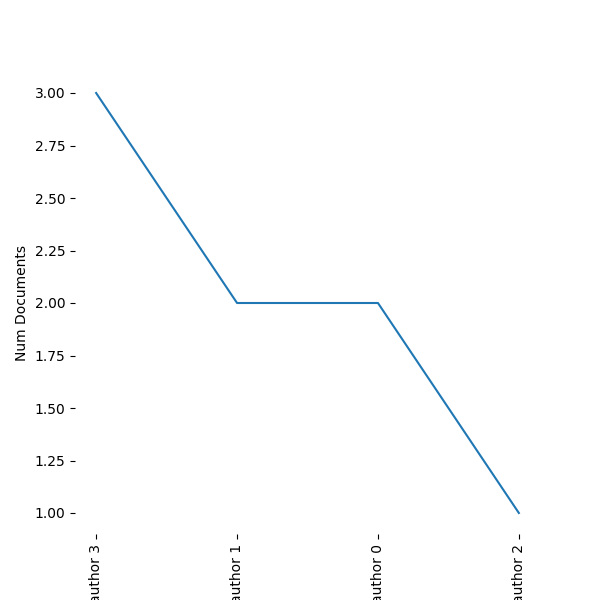
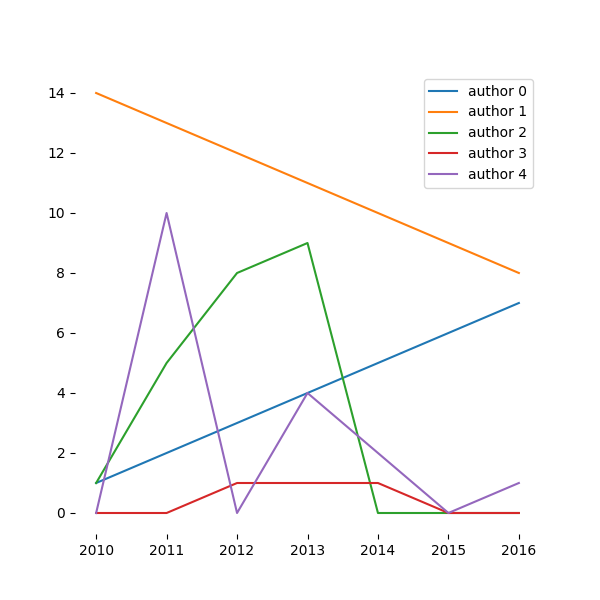
Plot.plot definition change

diff --git a/techminer/plot.py b/techminer/plot.py
@@ -799,20 +799,26 @@ class Plot:
         ----------------------------------------------------------------------------------------------
 
         >>> import pandas as pd
-        >>> pd = pd.DataFrame(
+        >>> df = pd.DataFrame(
         ...     {
-        ...         "Authors": "author 3,author 1,author 0,author 2".split(","),
-        ...         "Num Documents": [3, 2, 2, 1],
-        ...         "ID": list(range(4)),
-        ...     }
+        ...         "author 0": [ 1, 2, 3, 4, 5, 6, 7],
+        ...         "author 1": [14, 13, 12, 11, 10, 9, 8],
+        ...         "author 2": [1, 5, 8, 9, 0, 0, 0],
+        ...         "author 3": [0, 0, 1, 1, 1, 0, 0],
+        ...         "author 4": [0, 10, 0, 4, 2, 0, 1],
+        ...     },
+        ...     index =[2010, 2011, 2012, 2013, 2014, 2015, 2016]
         ... )
-        >>> pd
-            Authors  Num Documents  ID
-        0  author 3              3   0
-        1  author 1              2   1
-        2  author 0              2   2
-        3  author 2              1   3
-        >>> _ = Plot(pd).plot()
+        >>> df
+              author 0  author 1  author 2  author 3  author 4
+        2010         1        14         1         0         0
+        2011         2        13         5         0        10
+        2012         3        12         8         1         0
+        2013         4        11         9         1         4
+        2014         5        10         0         1         2
+        2015         6         9         0         0         0
+        2016         7         8         0         0         1
+        >>> _ = Plot(df).plot()
         >>> plt.savefig('sphinx/images/plotplot.png')
         
         .. image:: images/plotplot.png
@@ -823,20 +829,26 @@ class Plot:
         """
         plt.clf()
         x = self.df.copy()
-        x.pop("ID")
-        plt.gca().plot(
-            range(len(x)),
-            x[x.columns[1]],
-            *args,
-            scalex=scalex,
-            scaley=scaley,
-            **kwargs,
-        )
-        plt.xticks(
-            np.arange(len(x[x.columns[0]])), x[x.columns[0]], rotation="vertical"
-        )
-        plt.xlabel(x.columns[0])
-        plt.ylabel(x.columns[1])
+        if "ID" in x.columns:
+            x.pop("ID")
+            plt.gca().plot(
+                range(len(x)),
+                x[x.columns[1]],
+                *args,
+                scalex=scalex,
+                scaley=scaley,
+                **kwargs,
+            )
+            plt.xticks(
+                np.arange(len(x[x.columns[0]])), x[x.columns[0]], rotation="vertical"
+            )
+            plt.xlabel(x.columns[0])
+            plt.ylabel(x.columns[1])
+        else:
+            for col in x.columns:
+                plt.plot(x.index, x[col], label=col, **kwargs)
+            plt.legend()
+
         plt.gca().spines["top"].set_visible(False)
         plt.gca().spines["right"].set_visible(False)
         plt.gca().spines["left"].set_visible(False)

diff --git a/techminer/dataframe.py b/techminer/dataframe.py
@@ -11,8 +11,8 @@ import numpy as np
 from sklearn.decomposition import PCA
 import math
 
-from keywords import Keywords
-from strings import remove_accents
+from .keywords import Keywords
+from .strings import remove_accents
 
 SCOPUS_SEPS = {
     "Authors": ",",
